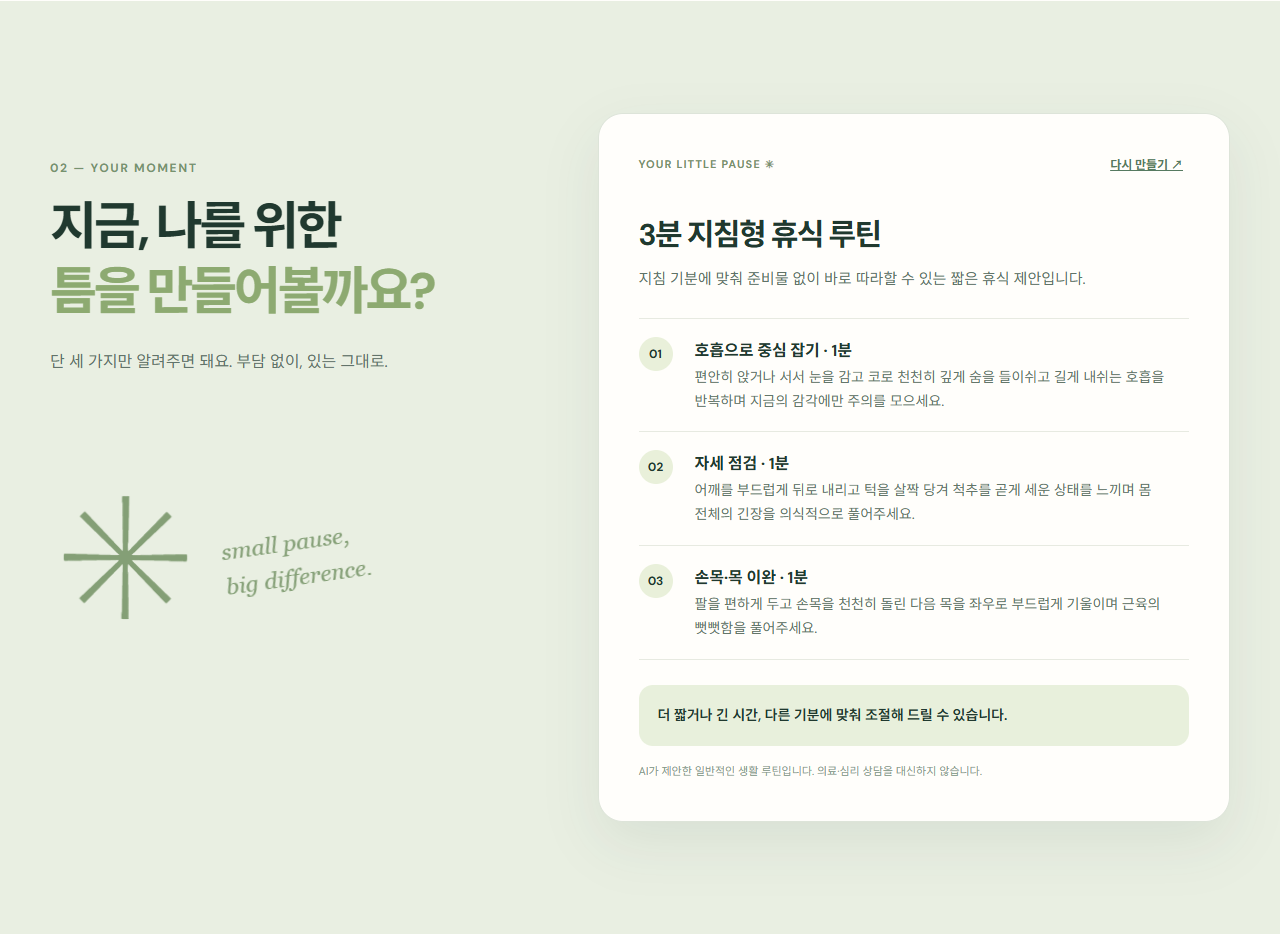
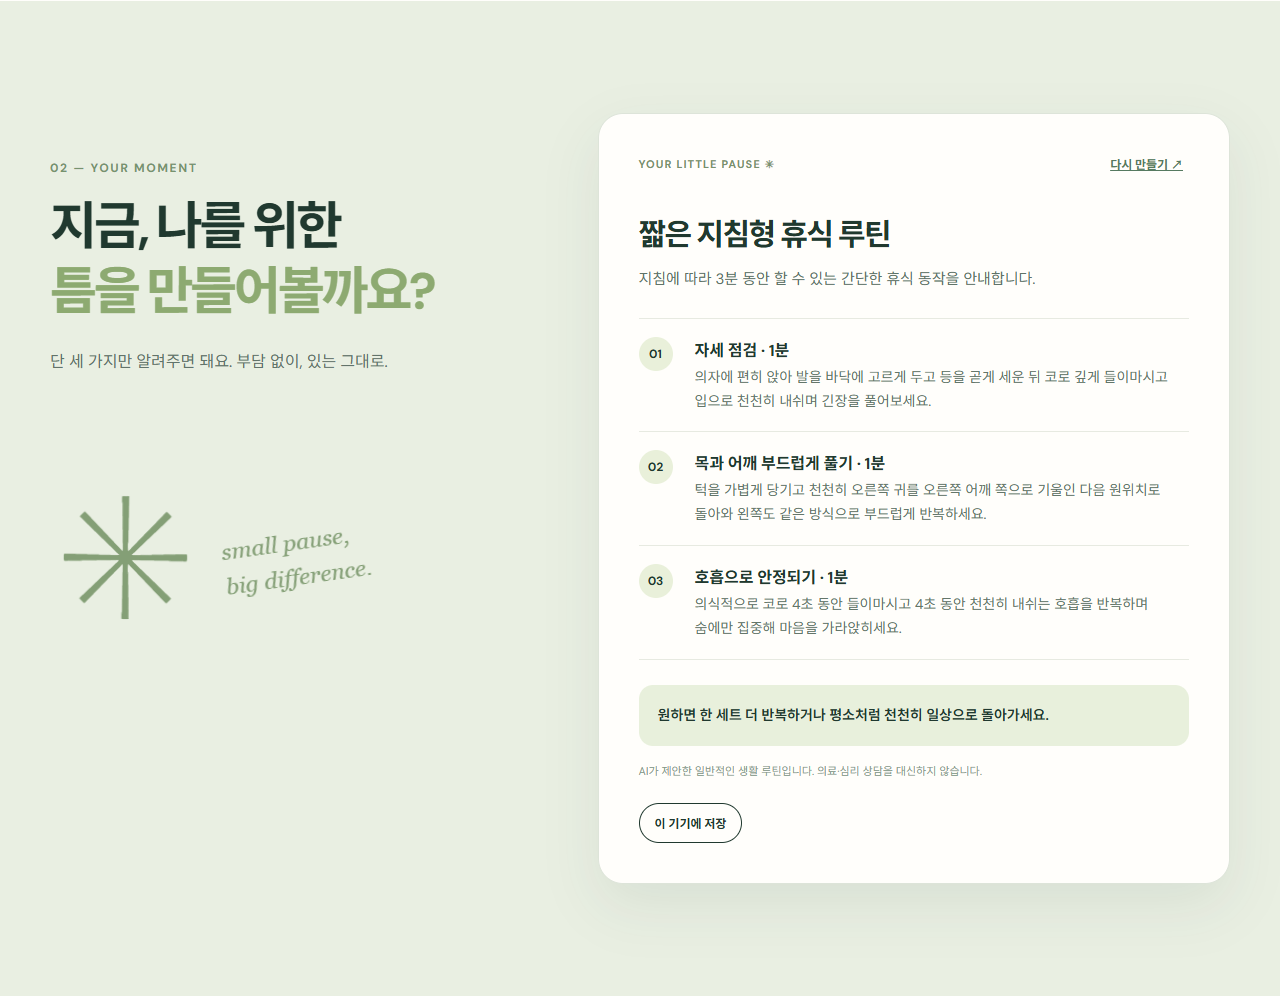
Add deployed bonus evidence and evaluator links

diff --git a/js/app.js b/js/app.js
@@ -39,6 +39,8 @@ function applyTheme(theme) {
 try {
   const stored = JSON.parse(localStorage.getItem(ROUTINE_STORAGE_KEY));
   if (isRoutine(stored)) savedRoutine = stored;
+} catch { /* Stored data may be unavailable or invalid. */ }
+try {
   applyTheme(localStorage.getItem(THEME_STORAGE_KEY) === 'dark' ? 'dark' : 'light');
 } catch {
   applyTheme('light');

diff --git a/README.md b/README.md
@@ -45,6 +45,10 @@
 | ① 운영 자동화 또는 데이터 저장 고도화 | 실제 AI 생성 결과를 받은 뒤 **이 기기에 저장**을 누르면 최신 루틴 1개가 브라우저 `localStorage`에 남습니다. 새로고침 후 **다시 보기**, **삭제**까지 동작합니다. [저장 화면](docs/evidence/saved-routine.png) · [코드](js/app.js) |
 | ② UX 및 측정 고도화 | **다크 모드** 버튼으로 테마를 바꾸고 새로고침 후에도 선택을 유지합니다. [어두운 화면](docs/evidence/dark-mode.png) · [스타일](css/style.css) · [검증 방법](docs/PLAN.md#보너스-기능) |
 
+| 실제 AI 결과를 저장한 뒤 새로고침 | 저장한 루틴을 어두운 화면에서 보기 |
+| --- | --- |
+| [<img src="docs/evidence/saved-routine.png" alt="새로고침 후 남아 있는 저장한 AI 루틴" width="560">](docs/evidence/saved-routine.png) | [<img src="docs/evidence/dark-mode.png" alt="다크 모드가 적용된 운영 사이트" width="560">](docs/evidence/dark-mode.png) |
+
 결과 저장은 사용자가 직접 선택해야 시작됩니다. 자유 입력 원문과 API 키는 별도로 저장하지 않지만, 생성 결과에 입력 내용이 반영될 수 있으므로 민감한 정보는 입력하지 마세요. 저장된 결과는 다른 기기와 공유되지 않습니다. 두 기능의 데스크톱·모바일 재현 절차는 [브라우저 테스트](tests/browser_smoke.cjs)에 있습니다.
 
 ## 미션 조건별 확인 경로
@@ -101,6 +105,7 @@ AI 작업 기록에는 실제 구현·테스트·수정 사항과 연결된 Git 
 - 운영 API에 `지침`·`3분` 요청: **200**, 3단계의 소요 시간 합 **3분** 확인
 - 실제 브라우저 결과 표시: [AI 결과 캡처](docs/evidence/ai-result.png)
 - 1280px·375px Chrome 화면에서 가로 넘침, 필수 입력 안내, 결과 표시, 다시 만들기 확인
+- 운영 사이트에서 실제 AI 결과 저장 → 새로고침 → 다시 보기와 다크 모드 전환 확인: [저장 화면](docs/evidence/saved-routine.png) · [다크 화면](docs/evidence/dark-mode.png)
 - Python 단위 테스트 **3건 통과**: [테스트 코드](tests/test_routine.py). 브라우저 확인 코드: [화면 테스트](tests/browser_smoke.cjs), [실제 결과 캡처](tests/capture_live_result.cjs)
 
 AI가 작성한 초안을 그대로 두지 않고, Vercel 진입점 오류·API 제공자 불일치·결과의 시간 중복 표시를 수정했습니다. 관련 변경은 [배포 설정 수정](https://github.com/highslow1536/Codyssey-A1-3/commit/c76109fb23ebef9e24ef5a595cb376f2440a105f), [Copa API 전환](https://github.com/highslow1536/Codyssey-A1-3/commit/ebec752cd6af852087195e49366c18c751f00a24), [시간 표시 수정](https://github.com/highslow1536/Codyssey-A1-3/commit/4681accbbedc2d012c9af863c6862ed0395ce5ed)에서 확인할 수 있습니다.
@@ -109,13 +114,13 @@ AI가 작성한 초안을 그대로 두지 않고, Vercel 진입점 오류·API 
 
 Python 3.12 이상에서 저장소 루트의 `python3 tests/e2e_live.py`를 실행합니다. 추가 패키지나 로컬 API 키 없이 운영 URL의 4개 화면 구획과 CSS·JavaScript 로딩, 실제 Copa AI 응답의 2~3단계·시간 합, 잘못된 입력에 대한 400 응답을 차례로 검증합니다. 다른 배포를 검사하려면 `python3 tests/e2e_live.py https://example.vercel.app/`처럼 URL을 인자로 전달합니다. 실제 AI 요청 1회가 발생하므로 공급자의 사용량에 포함될 수 있습니다. [재현 스크립트](tests/e2e_live.py)
 
-2026-09-28 운영 URL에서 실행한 로그(응답 본문·입력·키는 출력하지 않음):
+2026-09-29 운영 URL에서 실행한 로그(응답 본문·입력·키는 출력하지 않음):
 
 ```text
 PASS GET /: 200, four sections
 PASS GET /css/style.css: 200
 PASS GET /js/app.js: 200
-PASS POST /api/routine: 200, 3 steps, total 3 min, 18.5s
+PASS POST /api/routine: 200, 3 steps, total 3 min, 9.6s
 PASS POST invalid /api/routine: 400
 ```
 

diff --git a/docs/AI_WORK_LOG.md b/docs/AI_WORK_LOG.md
@@ -14,6 +14,7 @@
 8. 사용자가 제공한 Copa 공식 호출 예제를 바탕으로 OpenAI Responses 호출을 Copa Chat Completions 호출로 수정했다. `OPENAI_API_KEY`에는 virtual key를, `MODEL`에는 모델명을 사용한다. JSON 응답 구조와 단계 시간 합을 서버에서 검증한다.
 9. 재배포 후 운영 API에 `지침`·`3분`을 전송하여 200 응답과 3단계의 시간 합 3분을 확인했다. 실제 브라우저에서도 결과가 표시됐다. 첫 캡처에서 단계 제목과 UI의 시간 중복을 발견해 수정하고, 다시 실제 AI 결과를 받아 `docs/evidence/ai-result.png`에 저장했다.
 10. 평가자가 README에서 흐름을 바로 볼 수 있도록 운영 사이트의 히어로·소개·모바일 입력·필수 입력 오류·FAQ 구획을 별도 캡처해 링크했다.
+11. 보너스 과제 원문을 다시 확인해 AI 결과의 선택 저장과 다크 모드를 추가했다. 저장은 브라우저 `localStorage`에 결과 1개만 보관하고 새로고침 뒤 다시 보기·삭제가 가능하도록 했다. 1280px·375px 브라우저에서 전환·저장·삭제와 가로 넘침을 확인했으며, 운영 사이트의 실제 AI 결과를 저장한 화면과 다크 모드를 다시 캡처했다.
 
 ## 제출용 화면 증빙
 
